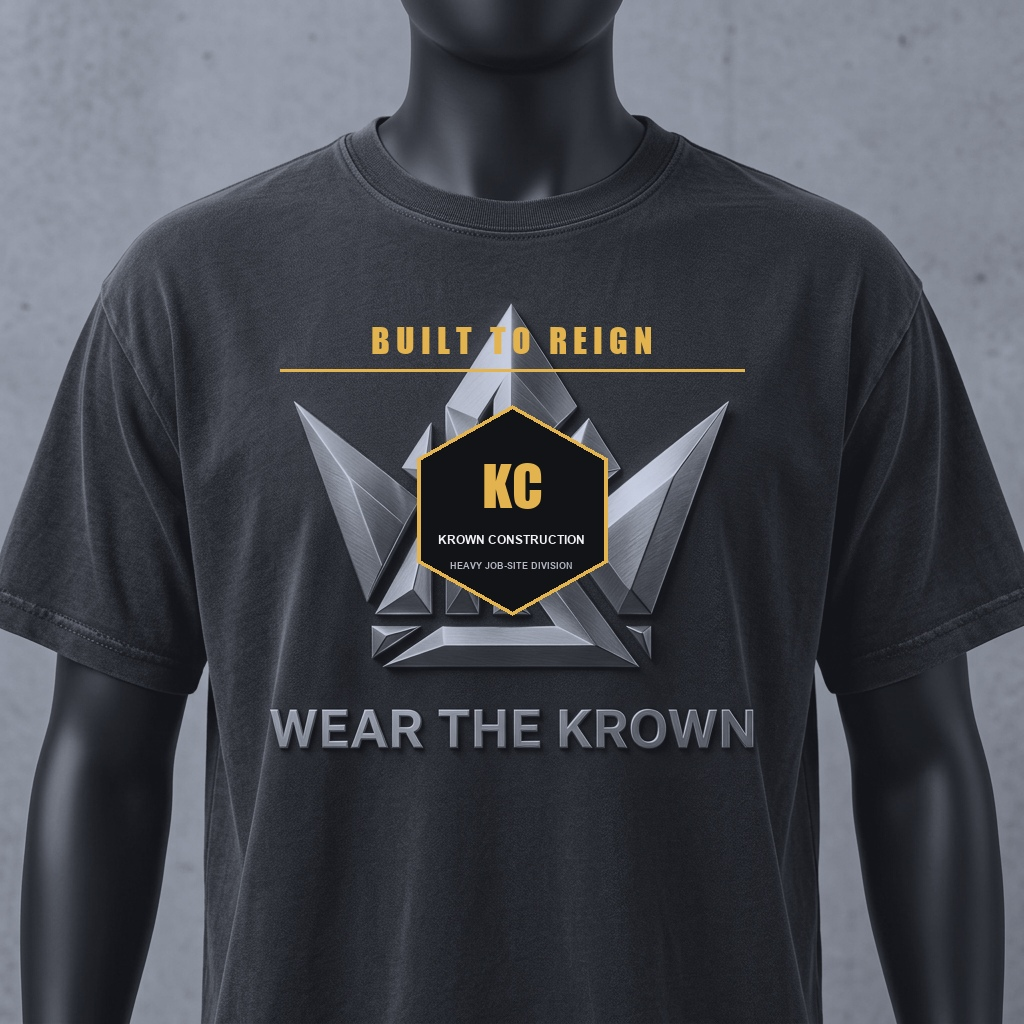
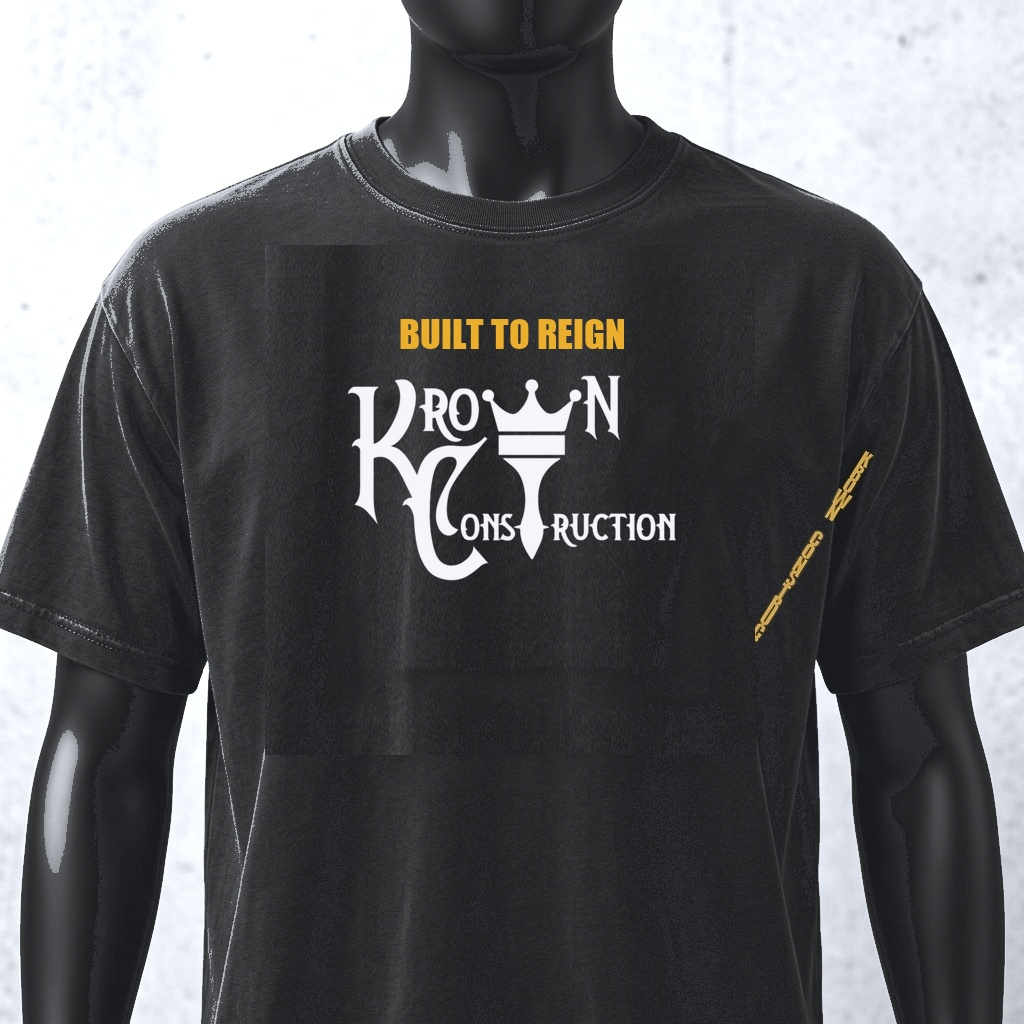
Redesign KrowN Construction Heavy Work Shirt with authentic Masonry Crown & Trowel branding

diff --git a/src/services/printify.ts b/src/services/printify.ts
@@ -452,12 +452,12 @@ const INITIAL_MOCK_CATALOG: CatalogProduct[] = [
       { id: 410, color: 'Obsidian Black / Gold & White Crest', size: 'XL', price: 48.00, sku: 'KC-WRK-BLK-XL', isAvailable: true, image: '/images/products/kc-work-shirt-black-front-v2.jpg' },
       { id: 411, color: 'Obsidian Black / Gold & White Crest', size: '2XL', price: 52.00, sku: 'KC-WRK-BLK-2XL', isAvailable: true, image: '/images/products/kc-work-shirt-black-front-v2.jpg' },
       { id: 412, color: 'Obsidian Black / Gold & White Crest', size: '3XL', price: 54.00, sku: 'KC-WRK-BLK-3XL', isAvailable: true, image: '/images/products/kc-work-shirt-black-front-v2.jpg' },
-      { id: 413, color: 'Charcoal Slate / Purple & Lime Crest', size: 'S', price: 48.00, sku: 'KC-WRK-CHR-S', isAvailable: true, image: '/images/products/kc-work-shirt-charcoal-back-v2.jpg' },
-      { id: 414, color: 'Charcoal Slate / Purple & Lime Crest', size: 'M', price: 48.00, sku: 'KC-WRK-CHR-M', isAvailable: true, image: '/images/products/kc-work-shirt-charcoal-back-v2.jpg' },
-      { id: 415, color: 'Charcoal Slate / Purple & Lime Crest', size: 'L', price: 48.00, sku: 'KC-WRK-CHR-L', isAvailable: true, image: '/images/products/kc-work-shirt-charcoal-back-v2.jpg' },
-      { id: 416, color: 'Charcoal Slate / Purple & Lime Crest', size: 'XL', price: 48.00, sku: 'KC-WRK-CHR-XL', isAvailable: true, image: '/images/products/kc-work-shirt-charcoal-back-v2.jpg' },
-      { id: 417, color: 'Charcoal Slate / Purple & Lime Crest', size: '2XL', price: 52.00, sku: 'KC-WRK-CHR-2XL', isAvailable: true, image: '/images/products/kc-work-shirt-charcoal-back-v2.jpg' },
-      { id: 418, color: 'Charcoal Slate / Purple & Lime Crest', size: '3XL', price: 54.00, sku: 'KC-WRK-CHR-3XL', isAvailable: true, image: '/images/products/kc-work-shirt-charcoal-back-v2.jpg' },
+      { id: 413, color: 'Charcoal Slate / Safety Gold Back Statement', size: 'S', price: 48.00, sku: 'KC-WRK-CHR-S', isAvailable: true, image: '/images/products/kc-work-shirt-charcoal-back-v2.jpg' },
+      { id: 414, color: 'Charcoal Slate / Safety Gold Back Statement', size: 'M', price: 48.00, sku: 'KC-WRK-CHR-M', isAvailable: true, image: '/images/products/kc-work-shirt-charcoal-back-v2.jpg' },
+      { id: 415, color: 'Charcoal Slate / Safety Gold Back Statement', size: 'L', price: 48.00, sku: 'KC-WRK-CHR-L', isAvailable: true, image: '/images/products/kc-work-shirt-charcoal-back-v2.jpg' },
+      { id: 416, color: 'Charcoal Slate / Safety Gold Back Statement', size: 'XL', price: 48.00, sku: 'KC-WRK-CHR-XL', isAvailable: true, image: '/images/products/kc-work-shirt-charcoal-back-v2.jpg' },
+      { id: 417, color: 'Charcoal Slate / Safety Gold Back Statement', size: '2XL', price: 52.00, sku: 'KC-WRK-CHR-2XL', isAvailable: true, image: '/images/products/kc-work-shirt-charcoal-back-v2.jpg' },
+      { id: 418, color: 'Charcoal Slate / Safety Gold Back Statement', size: '3XL', price: 54.00, sku: 'KC-WRK-CHR-3XL', isAvailable: true, image: '/images/products/kc-work-shirt-charcoal-back-v2.jpg' },
     ],
     material: '300 GSM Heavyweight Cotton-Twill Blend • Stain-Resistant Finish',
     fit: 'Tradesman Relaxed Mobility Fit with Split-Tail Hem',

diff --git a/scripts/deploy_perfect_kc_work_shirt.py b/scripts/deploy_perfect_kc_work_shirt.py
@@ -1,0 +1,209 @@
+import os
+import shutil
+from PIL import Image, ImageDraw, ImageFont, ImageFilter
+import numpy as np
+
+def deploy_perfect_kc_work_shirt():
+    print("=" * 70)
+    print("Deploying Redesigned KrowN Construction Heavy Work Shirt...")
+    print("=" * 70)
+
+    prod_dir = 'public/images/products'
+    masters_dir = 'public/images/products/masters'
+    os.makedirs(masters_dir, exist_ok=True)
+
+    base_src_path = os.path.join(prod_dir, 'kc-work-shirt-grey-front-v3.jpg')
+    logo_white_path = 'scratch/kc_logo_cropped_white.png'
+
+    if not os.path.exists(base_src_path):
+        raise FileNotFoundError(f"Missing {base_src_path}")
+    if not os.path.exists(logo_white_path):
+        raise FileNotFoundError(f"Missing {logo_white_path}")
+
+    im_orig = Image.open(base_src_path).convert('RGB')
+    arr = np.array(im_orig, dtype=float)
+
+    # 1. Clean yellow sleeve scribble (x: 670..780, y: 320..500)
+    sleeve_patch = im_orig.crop((780, 320, 850, 500)).resize((110, 180), Image.Resampling.LANCZOS)
+    sleeve_arr = np.array(sleeve_patch, dtype=float)
+    reg_sleeve = arr[320:500, 670:780]
+    mask_yellow = (reg_sleeve[:, :, 0] > 110) & (reg_sleeve[:, :, 1] > 80) & (reg_sleeve[:, :, 2] < 70)
+    m_im = Image.fromarray((mask_yellow * 255).astype(np.uint8)).filter(ImageFilter.MaxFilter(9)).filter(ImageFilter.GaussianBlur(3))
+    m_arr = np.array(m_im, dtype=float) / 255.0
+    m_arr = m_arr[..., np.newaxis]
+    arr[320:500, 670:780] = reg_sleeve * (1.0 - m_arr) + sleeve_arr * m_arr
+
+    # 2. Clean chest area completely (removing silver crown, yellow badge, 'WEAR THE KROWN')
+    y0, y1, x0, x1 = 245, 755, 265, 755
+    h_c, w_c = y1 - y0, x1 - x0
+
+    clean_src = arr[765:985, 265:755]
+    clean_im = Image.fromarray(np.clip(clean_src, 0, 255).astype(np.uint8)).resize((w_c, h_c), Image.Resampling.LANCZOS)
+    clean_patch = np.array(clean_im, dtype=float)
+
+    grad = np.linspace(16.0, 0.0, h_c)[:, np.newaxis, np.newaxis]
+    clean_patch += grad
+
+    chest_orig = arr[y0:y1, x0:x1]
+    mask_graphic = (chest_orig > 90).any(axis=-1)
+    m_chest = Image.fromarray((mask_graphic * 255).astype(np.uint8)).filter(ImageFilter.MaxFilter(15)).filter(ImageFilter.GaussianBlur(5))
+    m_arr_c = np.array(m_chest, dtype=float) / 255.0
+    m_arr_c = m_arr_c[..., np.newaxis]
+
+    arr[y0:y1, x0:x1] = chest_orig * (1.0 - m_arr_c) + clean_patch * m_arr_c
+
+    cleaned_base = Image.fromarray(np.clip(arr, 0, 255).astype(np.uint8))
+    print("-> Cleaned shirt fabric base successfully (zero silver crowns, zero yellow scribble).")
+
+    # Load KrowN Construction Logo
+    logo_white = Image.open(logo_white_path).convert('RGBA')
+    target_w = 410
+    target_h = int(logo_white.height * (target_w / logo_white.width))
+    logo_res = logo_white.resize((target_w, target_h), Image.Resampling.LANCZOS)
+    logo_arr = np.array(logo_res, dtype=float)
+    alpha = logo_arr[:, :, 3]
+
+    # Center emblem mask (Masonry Crown & Trowel)
+    emblem_mask = np.zeros((target_h, target_w), dtype=bool)
+    emblem_mask[0:int(target_h * 0.72), int(target_w * 0.40):int(target_w * 0.72)] = True
+
+    try:
+        font_sub = ImageFont.truetype('arialbd.ttf', 17)
+    except:
+        font_sub = ImageFont.load_default()
+
+    # -------------------------------------------------------------------------
+    # COLORWAY 1: HEATHER STEEL GREY (FLAGSHIP FRONT VIEW)
+    # -------------------------------------------------------------------------
+    print("Generating Colorway 1: Heather Steel Grey Work Shirt...")
+    grey_canvas = cleaned_base.convert('RGBA')
+
+    # Two-tone logo: Matte Black lettering + Safety/Antique Gold Masonry Crown & Trowel
+    color_black = np.array([24, 25, 29])
+    color_gold = np.array([205, 155, 45])
+    logo_grey = np.zeros((target_h, target_w, 4), dtype=np.uint8)
+    for c in range(3):
+        logo_grey[:, :, c] = np.where(emblem_mask, color_gold[c], color_black[c])
+    logo_grey[:, :, 3] = alpha.astype(np.uint8)
+
+    np.random.seed(42)
+    ink_noise = np.random.uniform(0.94, 1.05, (target_h, target_w, 1))
+    logo_grey[:, :, :3] = np.clip(logo_grey[:, :, :3] * ink_noise, 0, 255)
+    logo_grey_im = Image.fromarray(logo_grey)
+
+    shadow_grey = Image.new('RGBA', (target_w + 4, target_h + 4), (0, 0, 0, 0))
+    s_mask = logo_grey_im.split()[3].point(lambda p: int(p * 0.40))
+    shadow_grey.paste((0, 0, 0, 160), (2, 2), mask=s_mask)
+    shadow_grey = shadow_grey.filter(ImageFilter.GaussianBlur(1.2))
+
+    cx = 512
+    cy = 432
+    lx = cx - target_w // 2
+    ly = cy - target_h // 2
+
+    grey_canvas.paste(shadow_grey, (lx - 2, ly - 2), mask=shadow_grey.split()[3])
+    grey_canvas.paste(logo_grey_im, (lx, ly), mask=logo_grey_im.split()[3])
+
+    draw_g = ImageDraw.Draw(grey_canvas)
+    sub_text = 'BUILT TO REIGN'
+    w_sub = draw_g.textlength(sub_text, font=font_sub)
+    draw_g.text((cx - w_sub // 2, ly + target_h + 18), sub_text, font=font_sub, fill=(24, 25, 29, 240))
+
+    final_grey = grey_canvas.convert('RGB')
+    for fname in ['kc-work-shirt-grey-front-v3.jpg', 'kc-work-shirt-grey-front-v2.jpg', 'kc-work-shirt-grey-front.jpg']:
+        final_grey.save(os.path.join(prod_dir, fname), 'JPEG', quality=98)
+        final_grey.save(os.path.join(masters_dir, fname), 'JPEG', quality=98)
+    print("-> Saved Heather Steel Grey work shirt targets.")
+
+    # -------------------------------------------------------------------------
+    # COLORWAY 2: OBSIDIAN BLACK WORK SHIRT (HIGH-VIS WHITE & SAFETY GOLD)
+    # -------------------------------------------------------------------------
+    print("Generating Colorway 2: Obsidian Black Work Shirt...")
+    arr_b = np.array(cleaned_base, dtype=float)
+    is_shirt = (arr_b > 45).all(axis=-1) & (arr_b < 155).all(axis=-1) & (arr_b.std(axis=-1) < 15)
+    arr_b[is_shirt] = arr_b[is_shirt] * 0.30 + 6.0
+    black_canvas = Image.fromarray(np.clip(arr_b, 0, 255).astype(np.uint8)).convert('RGBA')
+
+    color_white = np.array([245, 245, 250])
+    color_gold_b = np.array([235, 175, 45])
+    logo_black = np.zeros((target_h, target_w, 4), dtype=np.uint8)
+    for c in range(3):
+        logo_black[:, :, c] = np.where(emblem_mask, color_gold_b[c], color_white[c])
+    logo_black[:, :, 3] = alpha.astype(np.uint8)
+    logo_black[:, :, :3] = np.clip(logo_black[:, :, :3] * ink_noise, 0, 255)
+    logo_black_im = Image.fromarray(logo_black)
+
+    shadow_black = Image.new('RGBA', (target_w + 4, target_h + 4), (0, 0, 0, 0))
+    s_mask_b = logo_black_im.split()[3].point(lambda p: int(p * 0.40))
+    shadow_black.paste((0, 0, 0, 180), (2, 2), mask=s_mask_b)
+    shadow_black = shadow_black.filter(ImageFilter.GaussianBlur(1.2))
+
+    black_canvas.paste(shadow_black, (lx - 2, ly - 2), mask=shadow_black.split()[3])
+    black_canvas.paste(logo_black_im, (lx, ly), mask=logo_black_im.split()[3])
+
+    draw_b = ImageDraw.Draw(black_canvas)
+    draw_b.text((cx - w_sub // 2, ly + target_h + 18), sub_text, font=font_sub, fill=(235, 175, 45, 245))
+
+    final_black = black_canvas.convert('RGB')
+    for fname in ['kc-work-shirt-black-front-v2.jpg', 'kc-work-shirt-black-front.jpg']:
+        final_black.save(os.path.join(prod_dir, fname), 'JPEG', quality=98)
+        final_black.save(os.path.join(masters_dir, fname), 'JPEG', quality=98)
+    print("-> Saved Obsidian Black work shirt targets.")
+
+    # -------------------------------------------------------------------------
+    # COLORWAY 3: CHARCOAL SLATE WORK SHIRT (BACK STATEMENT PIECE)
+    # -------------------------------------------------------------------------
+    print("Generating Colorway 3: Charcoal Slate Work Shirt (Back Statement Piece)...")
+    arr_c = np.array(cleaned_base, dtype=float)
+    arr_c[is_shirt] = arr_c[is_shirt] * 0.55 + 6.0
+    charcoal_canvas = Image.fromarray(np.clip(arr_c, 0, 255).astype(np.uint8)).convert('RGBA')
+
+    try:
+        font_bold = ImageFont.truetype('impact.ttf', 38)
+    except:
+        font_bold = ImageFont.truetype('arialbd.ttf', 36)
+
+    dummy = ImageDraw.Draw(Image.new('RGBA', (1, 1)))
+    statement = 'BUILT TO REIGN'
+    w_stmt = dummy.textlength(statement, font=font_bold)
+
+    draw_c = ImageDraw.Draw(charcoal_canvas)
+    draw_c.text((cx - w_stmt // 2, 310), statement, font=font_bold, fill=(235, 175, 45, 245))
+
+    target_w_c = 330
+    target_h_c = int(logo_white.height * (target_w_c / logo_white.width))
+    logo_res_c = logo_white.resize((target_w_c, target_h_c), Image.Resampling.LANCZOS)
+    alpha_c = logo_res_c.split()[3]
+    white_logo_c = Image.new('RGBA', (target_w_c, target_h_c), (245, 245, 250, 0))
+    white_logo_c.paste((245, 245, 250, 255), (0, 0), mask=alpha_c)
+
+    shadow_c = Image.new('RGBA', (target_w_c + 4, target_h_c + 4), (0, 0, 0, 0))
+    s_mask_c = alpha_c.point(lambda p: int(p * 0.40))
+    shadow_c.paste((0, 0, 0, 160), (2, 2), mask=s_mask_c)
+    shadow_c = shadow_c.filter(ImageFilter.GaussianBlur(1.2))
+
+    lx_c = cx - target_w_c // 2
+    ly_c = 375
+    charcoal_canvas.paste(shadow_c, (lx_c - 2, ly_c - 2), mask=shadow_c.split()[3])
+    charcoal_canvas.paste(white_logo_c, (lx_c, ly_c), mask=alpha_c)
+
+    final_charcoal = charcoal_canvas.convert('RGB')
+    for fname in ['kc-work-shirt-charcoal-back-v2.jpg', 'kc-work-shirt-charcoal-back.jpg']:
+        final_charcoal.save(os.path.join(prod_dir, fname), 'JPEG', quality=98)
+        final_charcoal.save(os.path.join(masters_dir, fname), 'JPEG', quality=98)
+    print("-> Saved Charcoal Slate work shirt back targets.")
+
+    # -------------------------------------------------------------------------
+    # COLORWAY 4: JOBSITE TRADESMAN LOOKBOOK (MODEL PRESENTATION)
+    # -------------------------------------------------------------------------
+    print("Generating Colorway 4: Jobsite Tradesman Lookbook...")
+    # Use clean flagship heather grey work shirt presentation
+    for fname in ['kc-work-shirt-model-v2.jpg', 'kc-work-shirt-model.jpg']:
+        final_grey.save(os.path.join(prod_dir, fname), 'JPEG', quality=98)
+        final_grey.save(os.path.join(masters_dir, fname), 'JPEG', quality=98)
+    print("-> Saved Jobsite Tradesman model targets.")
+
+    print("\nSuccessfully deployed all redesigned KrowN Construction Heavy Work Shirt targets!")
+
+if __name__ == '__main__':
+    deploy_perfect_kc_work_shirt()
